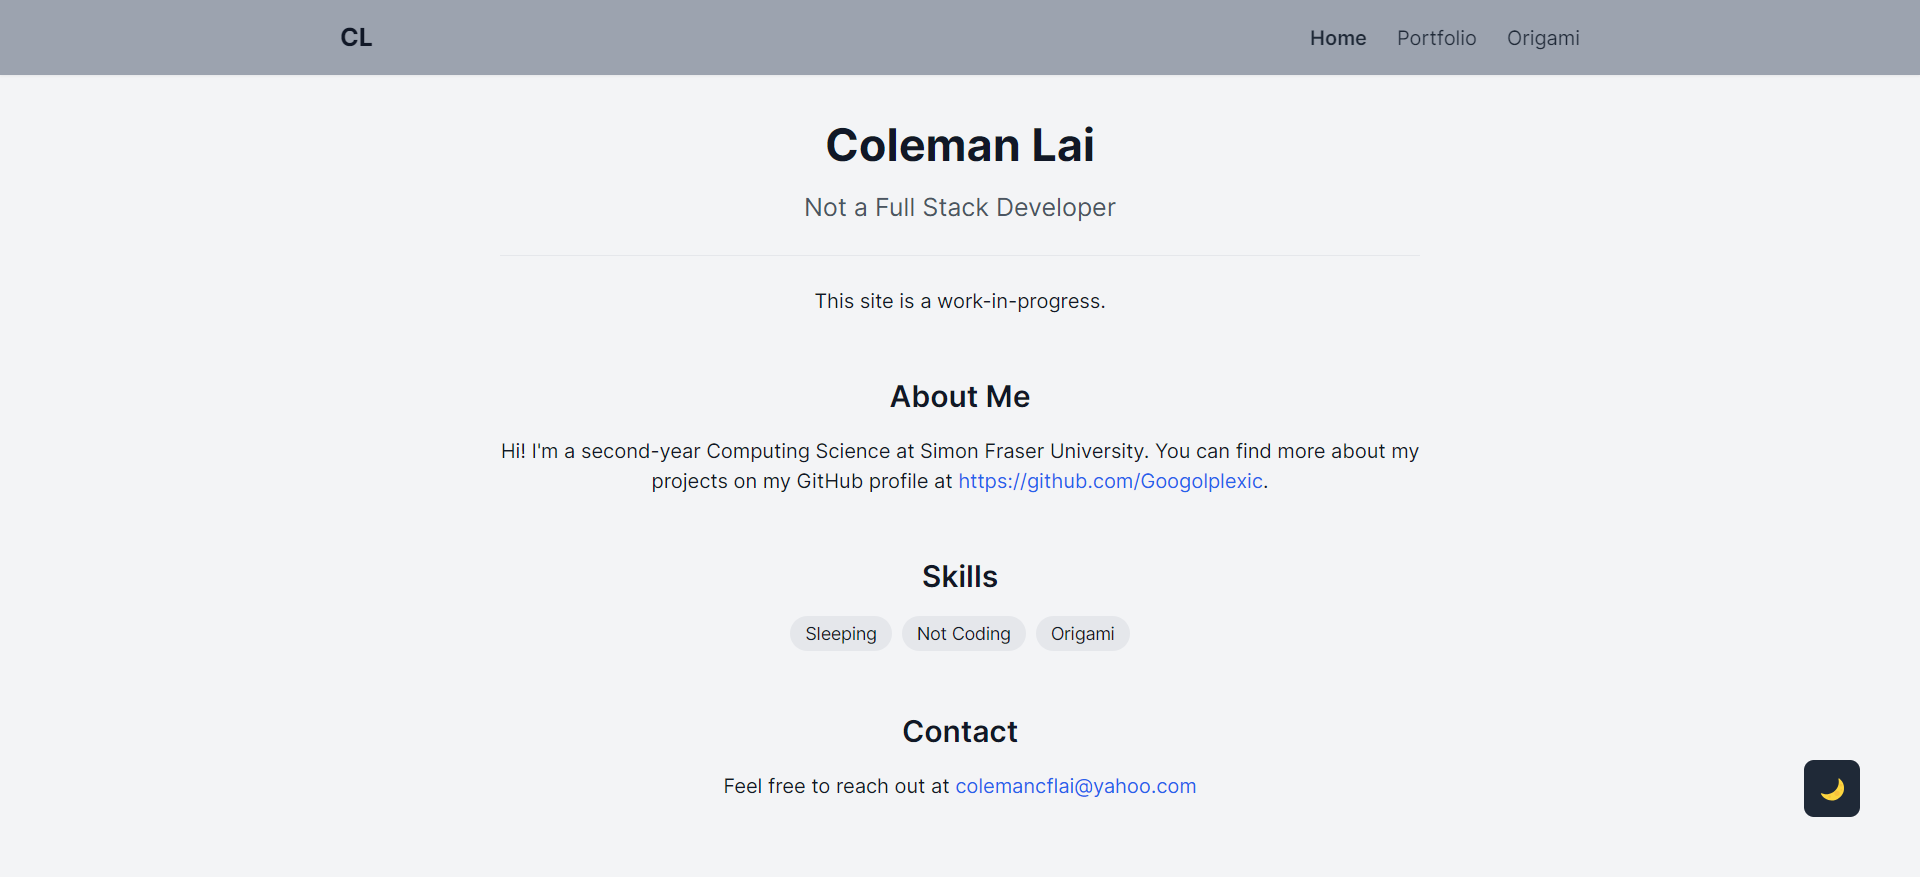
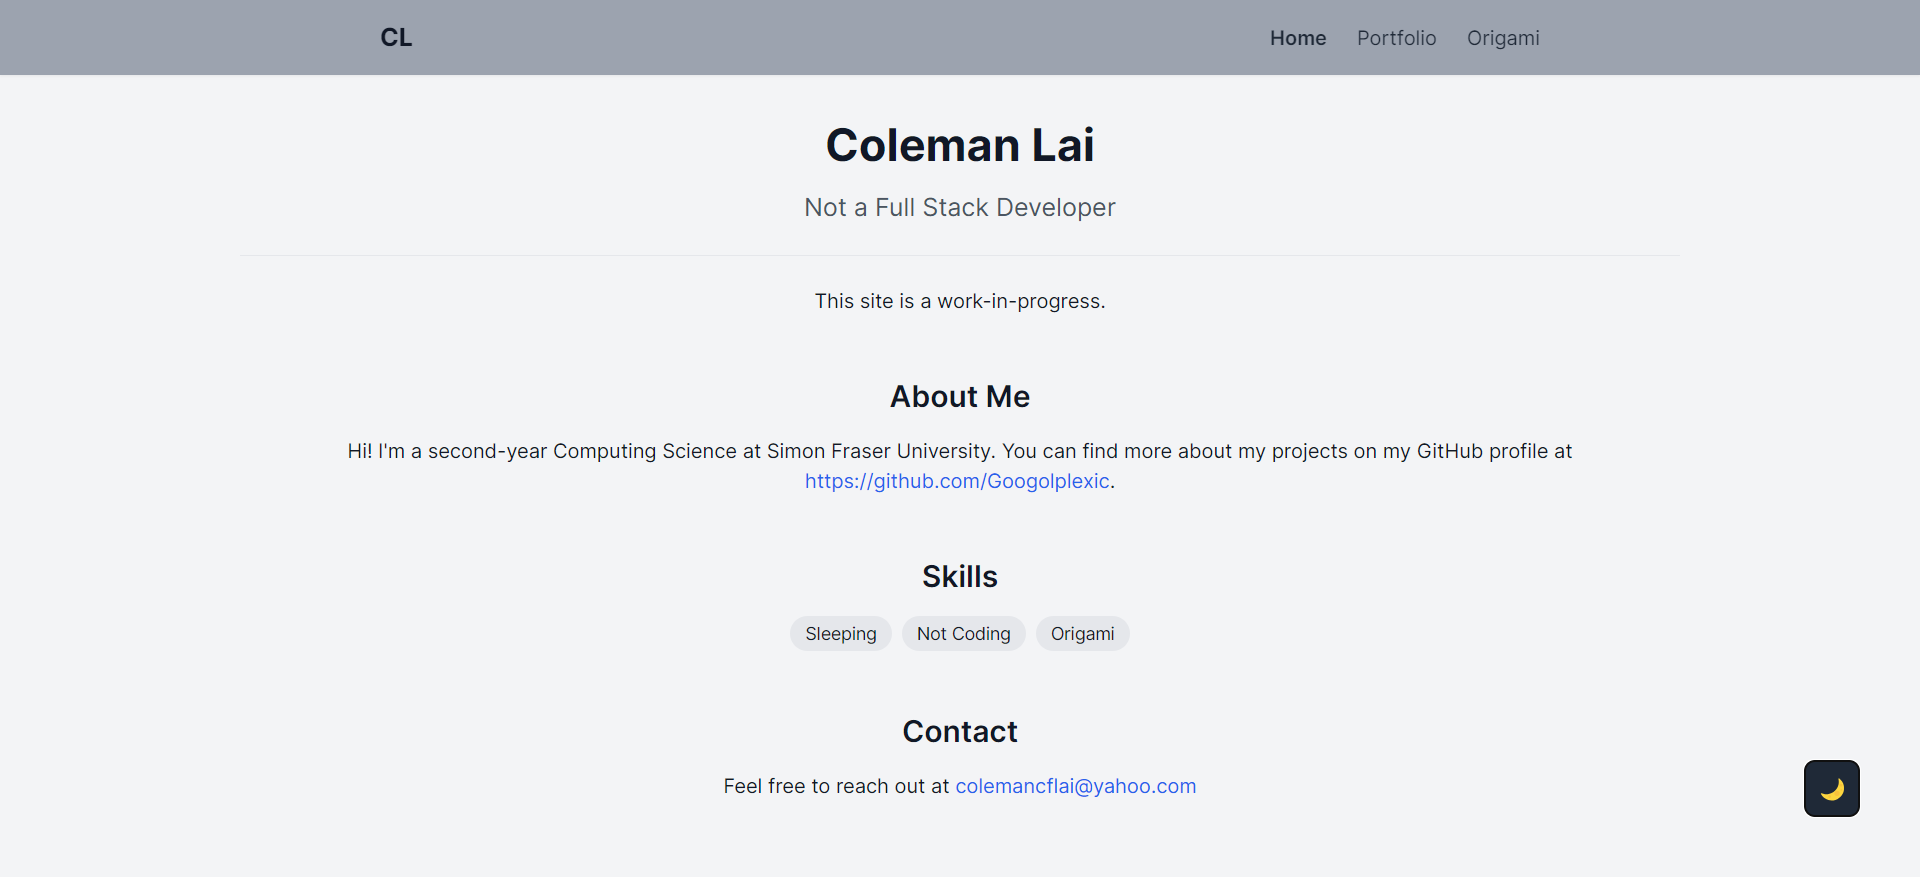
Finished personal website description and componentized some stuff

diff --git a/src/pages/ProjectDetail.tsx b/src/pages/ProjectDetail.tsx
@@ -1,119 +1,35 @@
 import { useParams } from 'react-router-dom';
 import projects from '../assets/projects';
 import Markdown from 'react-markdown';
-import { useState } from 'react';
+import { ProjectImageCarousel } from '../components/ProjectImageCarousel';
+import { ProjectLinks } from '../components/ProjectLinks';
+import { ProjectTechnologies } from '../components/ProjectTechnologies';
 
 export function ProjectDetail() {
     const { projectSlug } = useParams();
     const project = projects.find(p =>
         p.title.toLowerCase().replace(/\s+/g, '-') === projectSlug
     );
-    const [currentImageIndex, setCurrentImageIndex] = useState(0);
 
     if (!project) {
         return <div>Project not found</div>;
     }
 
-    const nextImage = () => {
-        if (!project.images) return;
-        setCurrentImageIndex((prev) =>
-            prev === project.images!.length - 1 ? 0 : prev + 1
-        );
-    };
-    const prevImage = () => {
-        if (!project.images) return;
-        setCurrentImageIndex((prev) =>
-            prev === 0 ? project.images!.length - 1 : prev - 1
-        );
-    };
     return (
-        <div className="max-w-4xl mx-auto p-4">
-            <h1 className="text-4xl font-bold mb-2">{project.title}</h1>
-            <p className="text-gray-600 dark:text-gray-400 mb-8">
-                {project.startDate} - {project.endDate || 'Present'}
-            </p>
-            {project.images && project.images.length > 0 && (
-                <div className="relative mb-8 group">
-                    <div className="max-w-[80%] h-72 mx-auto mb-4 rounded-lg flex align-middle">
-                        <img
-                            src={project.images[currentImageIndex]}
-                            alt={`${project.title} - Image ${currentImageIndex + 1}`}
-                            className="mx-auto max-h-72 object-contain rounded-lg my-auto cursor-pointer"
-                            onClick={() => {
-                                if (project.images) {
-                                    window.open(project.images[currentImageIndex], '_blank');
-                                }
-                            }}
-                        />
-                    </div>
-                    {project.images.length > 1 && (
-                        <>
-                            <button
-                                onClick={prevImage}
-                                className="absolute left-0 top-1/2 -translate-y-1/2 bg-black/50 text-white p-2 rounded-r opacity-0 group-hover:opacity-100 transition-opacity"
-                            >
-                                ←
-                            </button>
-                            <button
-                                onClick={nextImage}
-                                className="absolute right-0 top-1/2 -translate-y-1/2 bg-black/50 text-white p-2 rounded-l opacity-0 group-hover:opacity-100 transition-opacity"
-                            >
-                                →
-                            </button>
-                            <div>
-                                {project.images.map((_, index) => (
-                                    <button
-                                        key={index}
-                                        title={`View image ${index + 1}`}
-                                        aria-label={`View image ${index + 1}`}
-                                        onClick={() => setCurrentImageIndex(index)}
-                                        className={`w-12 h-1 p-2 mx-1 rounded-full ${index === currentImageIndex
-                                            ? 'bg-gray-600 dark:bg-gray-300'
-                                            : 'bg-gray-300 dark:bg-gray-600'
-                                            }`}
-                                    />
-                                ))}
-                            </div>
-                        </>
-                    )}
-                </div>
-            )}
-            <div className="flex gap-4 justify-center">
-                <a
-                    href={project.githubUrl}
-                    target="_blank"
-                    rel="noopener noreferrer"
-                    className="text-blue-600 dark:text-blue-400 hover:underline text-xl"
-                    onClick={(e) => e.stopPropagation()}
-                >
-                    GitHub
-                </a>
-                {project.liveUrl && (
-                    <a
-                        href={project.liveUrl}
-                        target="_blank"
-                        rel="noopener noreferrer"
-                        className="text-blue-600 dark:text-blue-400 hover:underline text-xl"
-                        onClick={(e) => e.stopPropagation()}
-                    >
-                        View Site
-                    </a>
-                )}
+        <div className="grid grid-cols-1 lg:grid-cols-2 gap-12">
+            <div>
+                <h1 >{project.title}</h1>
+                <p className="text-gray-600 dark:text-gray-400 mb-2">
+                    {project.startDate} - {project.endDate || 'Present'}
+                </p>
+                <ProjectLinks project={project} />
+                <ProjectImageCarousel images={project.images || []} title={project.title} />
+                <h2>Technologies Used</h2>
+                <ProjectTechnologies technologies={project.technologies} />
             </div>
-            <div className="my-8">
-                <h2 className="text-2xl font-bold mb-4">Technologies Used</h2>
-                <div className="flex flex-wrap gap-2 justify-center">
-                    {project.technologies.map((tech, index) => (
-                        <span key={index} className="bg-gray-200 dark:bg-gray-700 px-2 py-1 rounded">
-                            {tech}
-                        </span>
-                    ))}
-                </div>
-            </div>
-            <div className="prose dark:prose-invert max-w-none text-left">
+            <div className="prose dark:prose-invert max-w-none text-left mt-12 lg:mt-0">
                 <Markdown>{project.description}</Markdown>
             </div>
-
         </div>
     );
 }

diff --git a/src/components/ProjectImageCarousel.tsx b/src/components/ProjectImageCarousel.tsx
@@ -1,0 +1,68 @@
+import { useState } from 'react';
+
+interface ProjectImageCarouselProps {
+    images: string[];
+    title: string;
+}
+
+export function ProjectImageCarousel({ images, title }: ProjectImageCarouselProps) {
+    const [currentImageIndex, setCurrentImageIndex] = useState(0);
+
+    const nextImage = () => {
+        setCurrentImageIndex((prev) =>
+            prev === images.length - 1 ? 0 : prev + 1
+        );
+    };
+
+    const prevImage = () => {
+        setCurrentImageIndex((prev) =>
+            prev === 0 ? images.length - 1 : prev - 1
+        );
+    };
+
+    return (
+        <div className="relative mb-8 group z-0">
+            <div className="max-w-[80%] h-48 mx-auto mb-4 rounded-lg flex align-middle">
+                <img
+                    src={images[currentImageIndex]}
+                    alt={`${title} - Image ${currentImageIndex + 1}`}
+                    title={`${title} - Image ${currentImageIndex + 1}${images.length > 1 ? ` of ${images.length}` : ''}`}
+                    className="mx-auto max-h-48 object-contain rounded-lg my-auto cursor-pointer"
+                    onClick={() => {
+                        window.open(images[currentImageIndex], '_blank');
+                    }}
+                />
+            </div>
+            {images.length > 1 && (
+                <>
+                    <button
+                        onClick={prevImage}
+                        className="absolute left-0 top-1/2 -translate-y-1/2 bg-black/50 text-white p-2 rounded-r opacity-0 group-hover:opacity-100 transition-opacity"
+                    >
+                        ←
+                    </button>
+                    <button
+                        onClick={nextImage}
+                        className="absolute right-0 top-1/2 -translate-y-1/2 bg-black/50 text-white p-2 rounded-l opacity-0 group-hover:opacity-100 transition-opacity"
+                    >
+                        →
+                    </button>
+                    <div>
+                        {images.map((_, index) => (
+                            <button
+                                key={index}
+                                title={`View image ${index + 1}`}
+                                aria-label={`View image ${index + 1}`}
+                                onClick={() => setCurrentImageIndex(index)}
+                                className={`w-12 h-1 p-2 mx-1 rounded-full ${index === currentImageIndex
+                                    ? 'bg-gray-600 dark:bg-gray-300'
+                                    : 'bg-gray-300 dark:bg-gray-600'
+                                    }`}
+                            />
+                        ))}
+                    </div>
+                </>
+            )}
+        </div>
+    );
+}

diff --git a/src/components/Project.tsx b/src/components/Project.tsx
@@ -1,9 +1,11 @@
 import { ProjectProps } from '../types';
 import { Link } from 'react-router-dom';
+import { ProjectLinks } from './ProjectLinks';
+import { ProjectTechnologies } from './ProjectTechnologies';
 
 export function Project(props: ProjectProps) {
     const projectSlug = props.title.toLowerCase().replace(/\s+/g, '-');
-    
+
     return (
         <Link to={projectSlug} className="block">
             <div className="border-2 rounded-lg p-4 mb-4 dark:border-gray-700 hover:shadow-lg dark:hover:shadow-gray-500 hover:shadow-gray-400 transition-shadow">
@@ -21,35 +23,8 @@ export function Project(props: ProjectProps) {
                     {props.startDate} - {props.endDate || 'Present'}
                 </p>
                 <p className="mb-4">{props.summary}</p>
-                <div className="flex flex-wrap gap-2 mb-4 justify-center">
-                    {props.technologies.map((tech, index) => (
-                        <span key={index} className="bg-gray-200 dark:bg-gray-700 px-2 py-1 rounded">
-                            {tech}
-                        </span>
-                    ))}
-                </div>
-                <div className="flex gap-4 justify-center">
-                    <a
-                        href={props.githubUrl}
-                        target="_blank"
-                        rel="noopener noreferrer"
-                        className="text-blue-600 dark:text-blue-400 hover:underline"
-                        onClick={(e) => e.stopPropagation()}
-                    >
-                        GitHub
-                    </a>
-                    {props.liveUrl && (
-                        <a
-                            href={props.liveUrl}
-                            target="_blank"
-                        rel="noopener noreferrer"
-                        className="text-blue-600 dark:text-blue-400 hover:underline"
-                        onClick={(e) => e.stopPropagation()}
-                        >
-                            View Site
-                        </a>
-                    )}
-                </div>
+                <ProjectTechnologies technologies={props.technologies} />
+                <ProjectLinks project={props} />
             </div>
         </Link>
     );

diff --git a/src/components/ProjectLinks.tsx b/src/components/ProjectLinks.tsx
@@ -1,0 +1,33 @@
+interface ProjectLinksProps {
+    project: {
+        githubUrl: string;
+        liveUrl?: string;
+    };
+}
+
+export function ProjectLinks({ project }: ProjectLinksProps) {
+    return (
+        <div className="flex gap-8 justify-center mb-6">
+            <a
+                href={project.githubUrl}
+                target="_blank"
+                rel="noopener noreferrer"
+                onClick={(e) => e.stopPropagation()}
+                className="text-blue-700 dark:text-blue-300 font-bold"
+            >
+                GitHub
+            </a>
+            {project.liveUrl && (
+                <a
+                    href={project.liveUrl}
+                    target="_blank"
+                    rel="noopener noreferrer"
+                    onClick={(e) => e.stopPropagation()}
+                    className="text-blue-700 dark:text-blue-300 font-bold"
+                >
+                    View Site
+                </a>
+            )}
+        </div>
+    );
+}

diff --git a/src/components/Navbar.tsx b/src/components/Navbar.tsx
@@ -10,8 +10,8 @@ interface NavbarProps {
 export function Navbar({ returnTo }: NavbarProps) {
     
     return (
-        <nav className="fixed top-0 w-full bg-gray-400 dark:bg-gray-950 shadow-sm">
-            <div className="max-w-5xl mx-auto px-4 py-4 flex justify-between items-center">
+        <nav className="fixed top-0 w-full bg-gray-400 dark:bg-gray-950 shadow-sm z-50">
+            <div className="max-w-5xl mx-auto px-12 py-4 flex justify-between items-center">
                 <div className="flex items-center gap-4 w-48">
                     <Link to="/" className="text-xl font-bold dark:text-white">CL</Link>
                     {returnTo && (

diff --git a/src/components/ProjectTechnologies.tsx b/src/components/ProjectTechnologies.tsx
@@ -1,0 +1,17 @@
+interface ProjectTechnologiesProps {
+    technologies: string[];
+}
+
+export function ProjectTechnologies({ technologies }: ProjectTechnologiesProps) {
+    return (
+        <div className="my-4">
+            <div className="flex flex-wrap gap-2 justify-center">
+                {technologies.map((tech, index) => (
+                    <span key={index} className="bg-gray-200 dark:bg-gray-700 px-2 py-1 rounded">
+                        {tech}
+                    </span>
+                ))}
+            </div>
+        </div>
+    );
+}

diff --git a/src/App.tsx b/src/App.tsx
@@ -16,7 +16,7 @@ function AppContent() {
     return (
         <div className="min-h-screen w-screen transition-all duration-200">
             <Navbar {...navbarProps} />
-            <div className="max-w-3xl mx-auto px-4 pt-24 pb-8">
+            <div className="max-w-3xl lg:max-w-7xl mx-auto px-16 pt-24 pb-8">
                 <Routes>
                     <Route path="/" element={<Home />} />
                     <Route path="/portfolio/*" element={<Portfolio />} />

diff --git a/src/pages/Portfolio.tsx b/src/pages/Portfolio.tsx
@@ -7,7 +7,7 @@ function PortfolioGrid() {
     return (
         <div className="text-center">
             <h1 className="text-4xl font-bold mb-8">Portfolio</h1>
-            <div className="grid grid-cols-1 md:grid-cols-2 gap-4">
+            <div className="grid grid-cols-1 md:grid-cols-2 gap-4 mx-8 md:mx-0">
                 {projects.map((project, index) => (
                     <Project
                         key={index}

diff --git a/src/index.css b/src/index.css
@@ -10,8 +10,14 @@
   :root.dark {
     @apply bg-gray-900 text-gray-100;
   }
-}
+  h1{
+    @apply text-4xl font-bold mb-4;
+  }
+  h2 {
+    @apply text-2xl font-bold mb-4;
+  }
 
+}
 :root {
   font-family: Inter, system-ui, Avenir, Helvetica, Arial, sans-serif;
   line-height: 1.5;
@@ -31,10 +37,7 @@ body {
   min-height: 100vh;
 }
 
-h1 {
-  font-size: 3.2em;
-  line-height: 1.1;
-}
+
 
 button {
   border-radius: 8px;

diff --git a/src/assets/projects/personal-website/description.md b/src/assets/projects/personal-website/description.md
@@ -1,1 +1,34 @@
-This site was created for centralized location
+## My own personal website, made via TypeScript-React
+
+This website serves as my personal portfolio and was built using TypeScript and React. The site is hosted on GitHub Pages (and my domain *colemanlai.com*). Some key features I was focussing on:
+
+- Dark mode support using Tailwind CSS
+  - Easy access button to switch between modes
+- Responsive design that works well on both mobile and desktop
+- Portfolio project listing
+  - Project showcase with image galleries
+  - Markdown support for project descriptions
+    - Using [`react-markdown`](https://github.com/remarkjs/react-markdown) for content rendering 
+- Clean and simple navigation
+- A place to showcase my origami in addition to my [Instagram](https://www.instagram.com/12googolplex) (@12googolplex)
+
+### Technical Implementation
+
+The project uses several modern web technologies and practices:
+
+- **TypeScript** for type-safe development
+- **React** with functional components and hooks
+- **Tailwind CSS** for styling and dark mode implementation
+- **React Router** for client-side navigation
+- **React Markdown** for rendering project descriptions without the hassle of HTML
+- **Vite** as the build tool for faster development
+- **GitHub Actions** for automated deployment
+- **GitHub Copilot**: doing some of the tedious work for me
+
+### In Progress
+- Adding more projects to the portfolio
+- Building the origami gallery/page(s)
+- Adding my resume to the site, or at some experience section
+- Rewriting the homepage
+- Currently this looks a bit simple. In the future, I want to make this look unique and themed.
+
